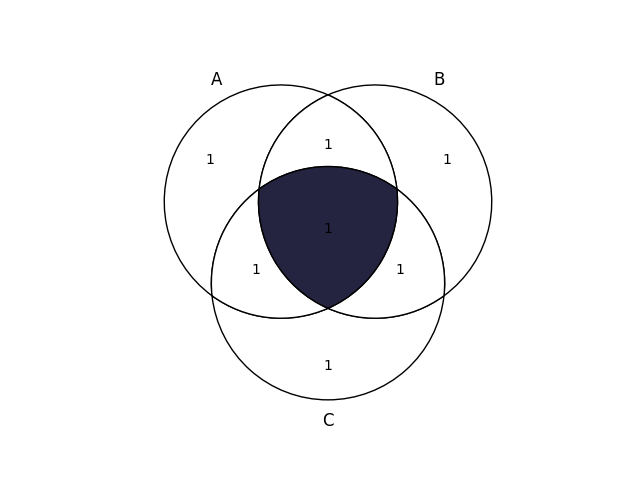
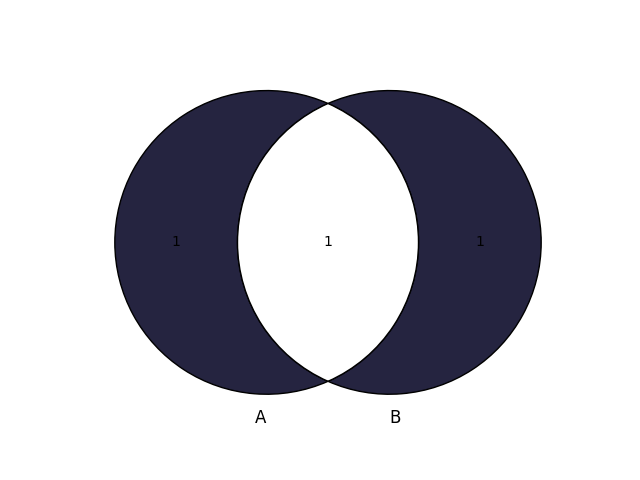
si

Changed region(s): [[0.1562, 0.1562, 0.8438, 0.875], [0.5, 0.2812, 0.5312, 0.3125]]

diff --git a/operaciones.py b/operaciones.py
@@ -1,8 +1,10 @@
 from matplotlib import pyplot as plt
 import numpy as np
 from matplotlib_venn import venn3,venn2
+from kivy.cache import Cache
 
 def _2sets(operation):
+    plt.clf()
     operation=operation.split(' ')
     sets={}
     sets['A']={'100','110'}
@@ -17,6 +19,9 @@ def _2sets(operation):
         result=set(set1)|set(set2)
     elif operation[1]=='n':
         result=set(set1).intersection(set2)
+    elif operation[1]=='Δ':
+        result=set(set1).symmetric_difference(set2)
+
 
     diagrama=venn2(subsets=(1, 1, 1),set_labels=('A','B'),alpha=1)
     for i in ('100','110','010'):
@@ -29,10 +34,13 @@ def _2sets(operation):
     for i in ('10','11','01'):
         diagrama.get_patch_by_id(i).set_edgecolor("black")
     
+    Cache.remove("kv.image", 'graph.png' + "|False|0")
+    Cache.remove("kv.texture", 'graph.png' + "|False|0")
     plt.savefig('graph.png')
     return result
 
 def _3sets(operation):
+    global i
     operation=operation.split(' ')
 
     set3=['111','011','001','101']
@@ -51,6 +59,9 @@ def _3sets(operation):
         result=set(res_1op)|set(set3)
     elif operation[3]=='n':
         result=set(res_1op).intersection(set3)
+    elif operation[3]=='Δ':
+        result=set(res_1op).symmetric_difference(set3)
+
 
     diagrama=venn3(subsets=(1, 1, 1,1,1,1,1),set_labels=('A','B','C'),alpha=1)
     for i in ('100','110','010','001','101','111','011'):
@@ -63,4 +74,5 @@ def _3sets(operation):
     for i in ('100','110','010','001','101','111','011'):
         diagrama.get_patch_by_id(i).set_edgecolor("black")
     
+    Cache.remove('kv.image')
     plt.savefig('graph.png')

diff --git a/main.py b/main.py
@@ -2,6 +2,7 @@ from kivy.lang.builder import Builder
 from kivymd.app import MDApp
 from kivy.core.window import Window
 import operaciones
+from kivy.uix.image import Image
 
 Window.size=(800,250)
 
@@ -9,11 +10,10 @@ class CalculadoraVenn(MDApp):
     def build(self):
         return Builder.load_file('main.kv')
 
-    def backspace(self):
-        text=self.root.ids.operation.text
-        n=len(text)
-        self.root.ids.operation.text=text[0:n-2]
-    
+    def delete(self):
+        self.root.ids.operation.text=''
+        self.root.ids.resultado.clear_widgets()
+
     def calculate(self):
         text=self.root.ids.operation.text
         text=text.strip()
@@ -23,7 +23,6 @@ class CalculadoraVenn(MDApp):
             operaciones._3sets(text)
         else:
             print('Tas mal chavo')
-        self.root.ids.resultado.source=''
         self.root.ids.resultado.source='graph.png'
 
 if __name__=='__main__':
